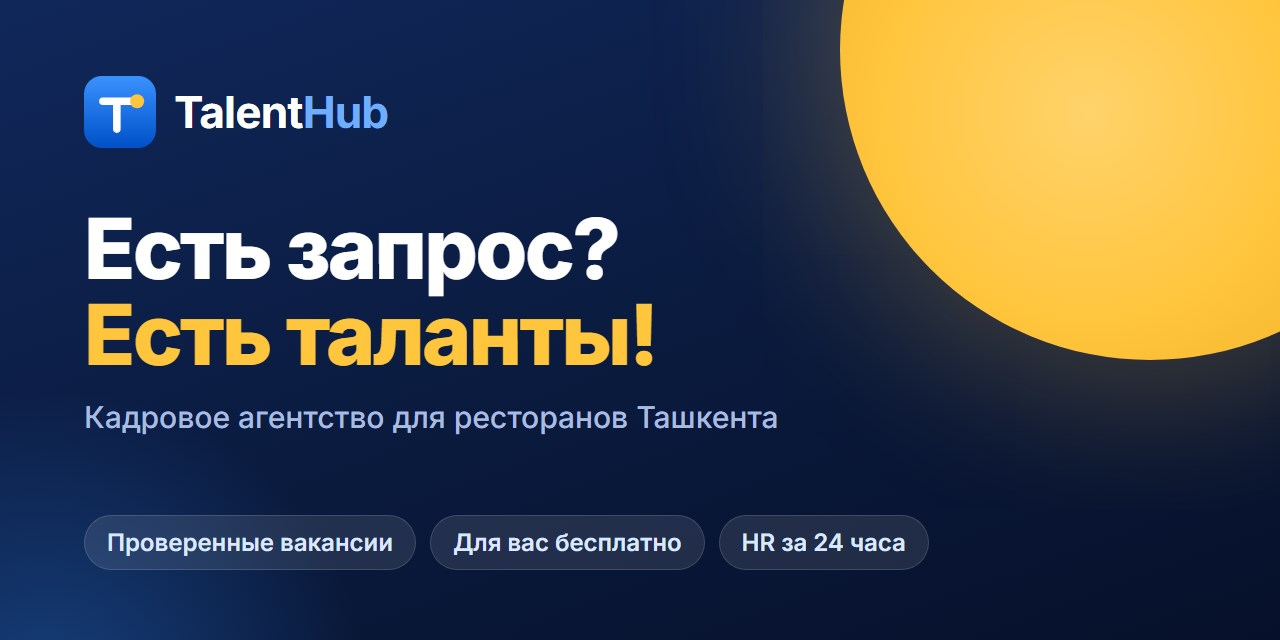
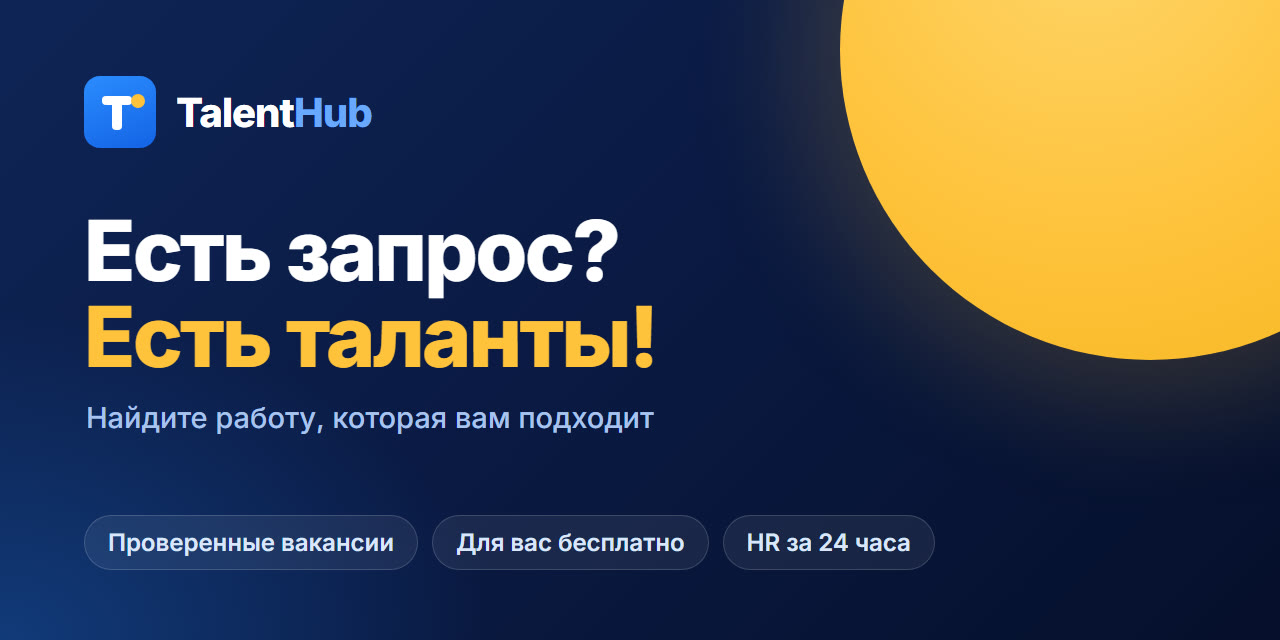
Bot /start: brend rasmi bilan, rasm ostida "O'zingizga mos ishni toping"

diff --git a/docs/brand/bot-welcome-ru.html b/docs/brand/bot-welcome-ru.html
@@ -1,0 +1,32 @@
+<!doctype html>
+<html><head><meta charset="utf-8">
+<link href="https://fonts.googleapis.com/css2?family=Inter:wght@500;600;800&display=swap" rel="stylesheet">
+<style>
+*{margin:0;padding:0;box-sizing:border-box}
+html,body{width:1280px;height:640px;overflow:hidden}
+body{font-family:Inter,sans-serif;position:relative;
+  background:radial-gradient(900px 600px at 0% 100%,#123a7a 0%,rgba(18,58,122,0) 55%),
+             linear-gradient(135deg,#0f2456 0%,#0b1a45 45%,#060f2c 100%)}
+.sun{position:absolute;right:-180px;top:-260px;width:620px;height:620px;border-radius:50%;
+  background:radial-gradient(circle at 40% 30%,#ffd56a 0%,#ffc23c 55%,#f6b520 100%);
+  box-shadow:0 0 120px 40px rgba(255,194,60,.18)}
+.logo{position:absolute;left:84px;top:76px;display:flex;align-items:center;gap:20px}
+.mark{width:72px;height:72px;border-radius:16px;background:linear-gradient(160deg,#2b8cff,#1463e6);position:relative}
+.mark:before{content:"";position:absolute;left:18px;top:20px;width:30px;height:9px;border-radius:4px;background:#fff}
+.mark:after{content:"";position:absolute;left:28px;top:20px;width:10px;height:34px;border-radius:4px;background:#fff}
+.dot{position:absolute;left:47px;top:18px;width:14px;height:14px;border-radius:50%;background:#ffc23c;z-index:2}
+.name{font-size:40px;font-weight:800;color:#fff;letter-spacing:-1px}
+.name b{color:#6aa8ff;font-weight:800}
+h1{position:absolute;left:84px;top:208px;font-size:84px;line-height:1.02;font-weight:800;letter-spacing:-2.6px;color:#fff}
+h1 span{color:#ffc23c}
+.sub{position:absolute;left:86px;top:400px;font-size:29px;font-weight:500;color:#a9c3f0}
+.chips{position:absolute;left:84px;top:515px;display:flex;gap:14px}
+.chip{height:55px;padding:0 23px;display:flex;align-items:center;border-radius:28px;font-size:24px;font-weight:600;color:#dbe6fb;
+  background:rgba(255,255,255,.07);border:1px solid rgba(255,255,255,.16)}
+</style></head><body>
+<div class="sun"></div>
+<div class="logo"><div class="mark"><i class="dot"></i></div><div class="name">Talent<b>Hub</b></div></div>
+<h1>Есть запрос?<br><span>Есть таланты!</span></h1>
+<div class="sub">Найдите работу, которая вам подходит</div>
+<div class="chips"><div class="chip">Проверенные вакансии</div><div class="chip">Для вас бесплатно</div><div class="chip">HR за 24 часа</div></div>
+</body></html>

diff --git a/docs/brand/bot-welcome-uz.html b/docs/brand/bot-welcome-uz.html
@@ -1,0 +1,32 @@
+<!doctype html>
+<html><head><meta charset="utf-8">
+<link href="https://fonts.googleapis.com/css2?family=Inter:wght@500;600;800&display=swap" rel="stylesheet">
+<style>
+*{margin:0;padding:0;box-sizing:border-box}
+html,body{width:1280px;height:640px;overflow:hidden}
+body{font-family:Inter,sans-serif;position:relative;
+  background:radial-gradient(900px 600px at 0% 100%,#123a7a 0%,rgba(18,58,122,0) 55%),
+             linear-gradient(135deg,#0f2456 0%,#0b1a45 45%,#060f2c 100%)}
+.sun{position:absolute;right:-180px;top:-260px;width:620px;height:620px;border-radius:50%;
+  background:radial-gradient(circle at 40% 30%,#ffd56a 0%,#ffc23c 55%,#f6b520 100%);
+  box-shadow:0 0 120px 40px rgba(255,194,60,.18)}
+.logo{position:absolute;left:84px;top:76px;display:flex;align-items:center;gap:20px}
+.mark{width:72px;height:72px;border-radius:16px;background:linear-gradient(160deg,#2b8cff,#1463e6);position:relative}
+.mark:before{content:"";position:absolute;left:18px;top:20px;width:30px;height:9px;border-radius:4px;background:#fff}
+.mark:after{content:"";position:absolute;left:28px;top:20px;width:10px;height:34px;border-radius:4px;background:#fff}
+.dot{position:absolute;left:47px;top:18px;width:14px;height:14px;border-radius:50%;background:#ffc23c;z-index:2}
+.name{font-size:40px;font-weight:800;color:#fff;letter-spacing:-1px}
+.name b{color:#6aa8ff;font-weight:800}
+h1{position:absolute;left:84px;top:208px;font-size:84px;line-height:1.02;font-weight:800;letter-spacing:-2.6px;color:#fff}
+h1 span{color:#ffc23c}
+.sub{position:absolute;left:86px;top:400px;font-size:29px;font-weight:500;color:#a9c3f0}
+.chips{position:absolute;left:84px;top:515px;display:flex;gap:14px}
+.chip{height:55px;padding:0 23px;display:flex;align-items:center;border-radius:28px;font-size:24px;font-weight:600;color:#dbe6fb;
+  background:rgba(255,255,255,.07);border:1px solid rgba(255,255,255,.16)}
+</style></head><body>
+<div class="sun"></div>
+<div class="logo"><div class="mark"><i class="dot"></i></div><div class="name">Talent<b>Hub</b></div></div>
+<h1>Talab bormi?<br><span>Talant bor!</span></h1>
+<div class="sub">O‘zingizga mos ishni toping</div>
+<div class="chips"><div class="chip">Tekshirilgan ishlar</div><div class="chip">Siz uchun bepul</div><div class="chip">HR 24 soatda</div></div>
+</body></html>

diff --git a/src/services/firstTouch.js b/src/services/firstTouch.js
@@ -257,8 +257,11 @@ async function candidatePick({ agencyId, lang, name, rid, appBase, closed }) {
   // g=1 — UMUMIY anketa: oldin lavozim tanlagan bo'lsa, javobsiz yozuv umumiyga qaytadi (routes/anketa)
   if (rid && appBase) keyboard.push([{ text: T(lang, 'ft.cOther'), web_app: { url: `${appBase}/anketa.html?r=${rid}&g=1` } }]);
   if (rid) keyboard.push([langSwitchBtn(lang, rid)]);
-  return { text, keyboard };
+  // Brend rasmi ("Talab bormi? Talant bor!" + "O'zingizga mos ishni toping") — SMS ekrani bilan bitta
+  // rasm (Anas, 2026-11-27: "birinchi start bosganda chiqsin"). Izoh — shu matn, tugmalar rasm ostida.
+  return { text, keyboard, photo: welcomePhoto(lang) };
 }
+const welcomePhoto = lang => `img/bot-welcome-${lang === 'ru' ? 'ru' : 'uz'}.jpg`;
 
 // Til tugmasi — BITTA, faqat ikkinchi til (o'z tilida yozilgan, tanimagan
 // ham topadi). Telegram interfeysi tili yolg'on taxmin beradi: O'zbekistonda
@@ -321,8 +324,7 @@ async function candidateInvite({ cand, lang, appBase }) {
   keyboard.push([{ text: T(lang, 'ft.iNo'), callback_data: 'ft:no' }]);
   // Rasm — public/ ichidagi yo'l: bot faylni Telegram'ga o'zi yuklaydi (URL bersak, Telegram
   // bepul Render'dan yuklay olmay qolardi — 2026-11-17 jonli), keyin file_id ishlatiladi
-  const photo = `img/bot-welcome-${lang === 'ru' ? 'ru' : 'uz'}.jpg`;
-  return { text, keyboard, photo };
+  return { text, keyboard, photo: welcomePhoto(lang) };
 }
 
 /** Botdagi bir tugmali ariza — kabinet (routes/candidate apply) bilan bir xil shartlar */
@@ -475,7 +477,7 @@ async function handleCallback({ data, chatId, appBase, from }) {
       const r = await candidatePick({ agencyId: survey.agencyId, lang,
         name: String((from && from.first_name) || '').trim().slice(0, 30),
         rid: open && open.id, appBase });
-      return { edit: r.text, keyboard: r.keyboard, html: true };
+      return { edit: r.text, keyboard: r.keyboard, html: true, photo: r.photo };
     }
     if (!isValidRole(arg) && arg !== OTHER) return { text: '' };
     const isTest =(await require('./testMode').modeOf(tgUserId)) === 'candidate';

diff --git a/src/routes/telegram.js b/src/routes/telegram.js
@@ -762,7 +762,8 @@ async function startSurvey(msg, chatId, ank, appBase) {
   if (v) track('view', Object.assign({ ref: v.id }, who));
 
   const scr = await firstScreen({ lang, from: msg.from, agencyId: s.agencyId, v, closed, r, appBase });
-  await tg.sendMessage(token, chatId, scr.text, { parse_mode: 'HTML', reply_markup: { inline_keyboard: scr.rows } });
+  // Havolasiz /start — brend rasmi bilan (rasm o'tmasa sendScreen matn yuboradi)
+  await sendScreen(token, chatId, { text: scr.text, keyboard: scr.rows, photo: scr.photo });
 }
 
 // ── Nomzodning birinchi ekrani (matn + tugmalar) ──
@@ -809,7 +810,7 @@ async function firstScreen({ lang, from, agencyId, v, closed, r, appBase }) {
   }
 
   const pick = await ft.candidatePick({ agencyId, lang, name: first, rid: r.id, appBase, closed });
-  return { text: pick.text, rows: pick.keyboard };
+  return { text: pick.text, rows: pick.keyboard, photo: pick.photo };
 }
 
 // ── Kontakt xabari ───────────────────────────────────────────
@@ -1072,8 +1073,15 @@ async function handleCallbackInner(cq, appBase, st) {
       if (!v || v.status !== 'open') { closed = !!v; v = null; }
     }
     const scr = await firstScreen({ lang, from: cq.from, agencyId: r.agencyId, v, closed, r, appBase });
-    await tg.editMessageText(token, chatId, msgId, scr.text,
-      { parse_mode: 'HTML', reply_markup: { inline_keyboard: scr.rows } }).catch(() => {});
+    const opt = { parse_mode: 'HTML', reply_markup: { inline_keyboard: scr.rows } };
+    // Rasmli birinchi xabar: rasm ham tanlangan tilga almashadi (editMessageText rasmda ishlamaydi)
+    if (cq.message && cq.message.photo) {
+      await (scr.photo ? tg.editLocalPhoto(token, chatId, msgId, scr.photo, scr.text, opt)
+        : tg.editMessageCaption(token, chatId, msgId, scr.text, opt))
+        .catch(e => console.warn('[CB] ft:lang rasm:', e.message));
+    } else {
+      await tg.editMessageText(token, chatId, msgId, scr.text, opt).catch(() => {});
+    }
     return;
   }
 

diff --git a/test/anketaflow.test.js b/test/anketaflow.test.js
@@ -123,6 +123,7 @@ test('birinchi ekran: ro\'yxatdan tashqari ish (boshqa) ham tugma oladi, nomi bi
   const pick = await ft.candidatePick({ agencyId: A, lang: 'uz' });
   assert.ok(!/\{top\}|call-markaz operatori 1/.test(pick.text), pick.text);    // taqsimot matnda yo'q
   assert.match(pick.text, /<b>4 ta ochiq ish<\/b>/);
+  assert.equal(pick.photo, 'img/bot-welcome-uz.jpg');                         // brend rasmi bilan
   const all = pick.keyboard.flat();
   assert.equal(all.find(b => b.callback_data === 'ft:c:boshqa').text, 'HR-rekruter · 1');
   const opRow = pick.keyboard.find(r => r.some(b => b.callback_data === 'ft:c:operator'));

diff --git a/docs/tarix.md b/docs/tarix.md
@@ -1614,3 +1614,12 @@ yangilandi. Testlar: `test/anketaflow.test.js`, `test/applications.test.js`.
 Salomdan keyin kimligimiz va ilmoq qatori (`ft.cIntro`, /start ham, vakansiya havolasi ham): "Bu TalentHub —
 rezyumesiz va bepul ishga ariza berasiz" — nomzodning ikki qo'rquviga javob (pul so'rashadi, rezyume yozolmayman).
 "Platforma" so'zi va "ish topasiz" va'dasi ataylab yo'q (kafolat bera olmaymiz).
+/start BREND RASMI BILAN (Anas: "Talab bormi, talant bor rasmimiz bor edi — birinchi start bosganda chiqsin;
+o'zingizga mos ishni toping degan marketing gap"). `candidatePick` -> `photo` (SMS ekrani bilan BITTA rasm,
+`welcomePhoto`), `/start` endi `sendScreen` (rasm o'tmasa — matn). Rasm qayta yasaldi: ostidagi "Toshkent
+restoranlari uchun ishga joylash agentligi" (restoranga bog'langan) -> "O'zingizga mos ishni toping" / «Найдите
+работу, которая вам подходит»; manba `docs/brand/bot-welcome-<uz|ru>.html` (headless Chrome 1280x640 -> ffmpeg jpg).
+Rasmli xabarda: til tugmasi (`ft:lang`) rasmni ham almashtiradi (`editLocalPhoto`), "Orqaga" (`ft:cb`) `photo`
+qaytaradi, lavozim ekrani izohga yoziladi (eng uzuni ~750 belgi < 1024). Lavozim tugmalari QOLDI: ular ekrandagi
+yagona harakat — olib tashlansa bitta ortiqcha bosish yoki chatda 12 ta ishning devor ro'yxati.
+Webhook darajasida bosib chiqildi (/start ru -> uz -> Ofitsiant -> Orqaga -> HR-rekruter), har xabar o'qildi.
